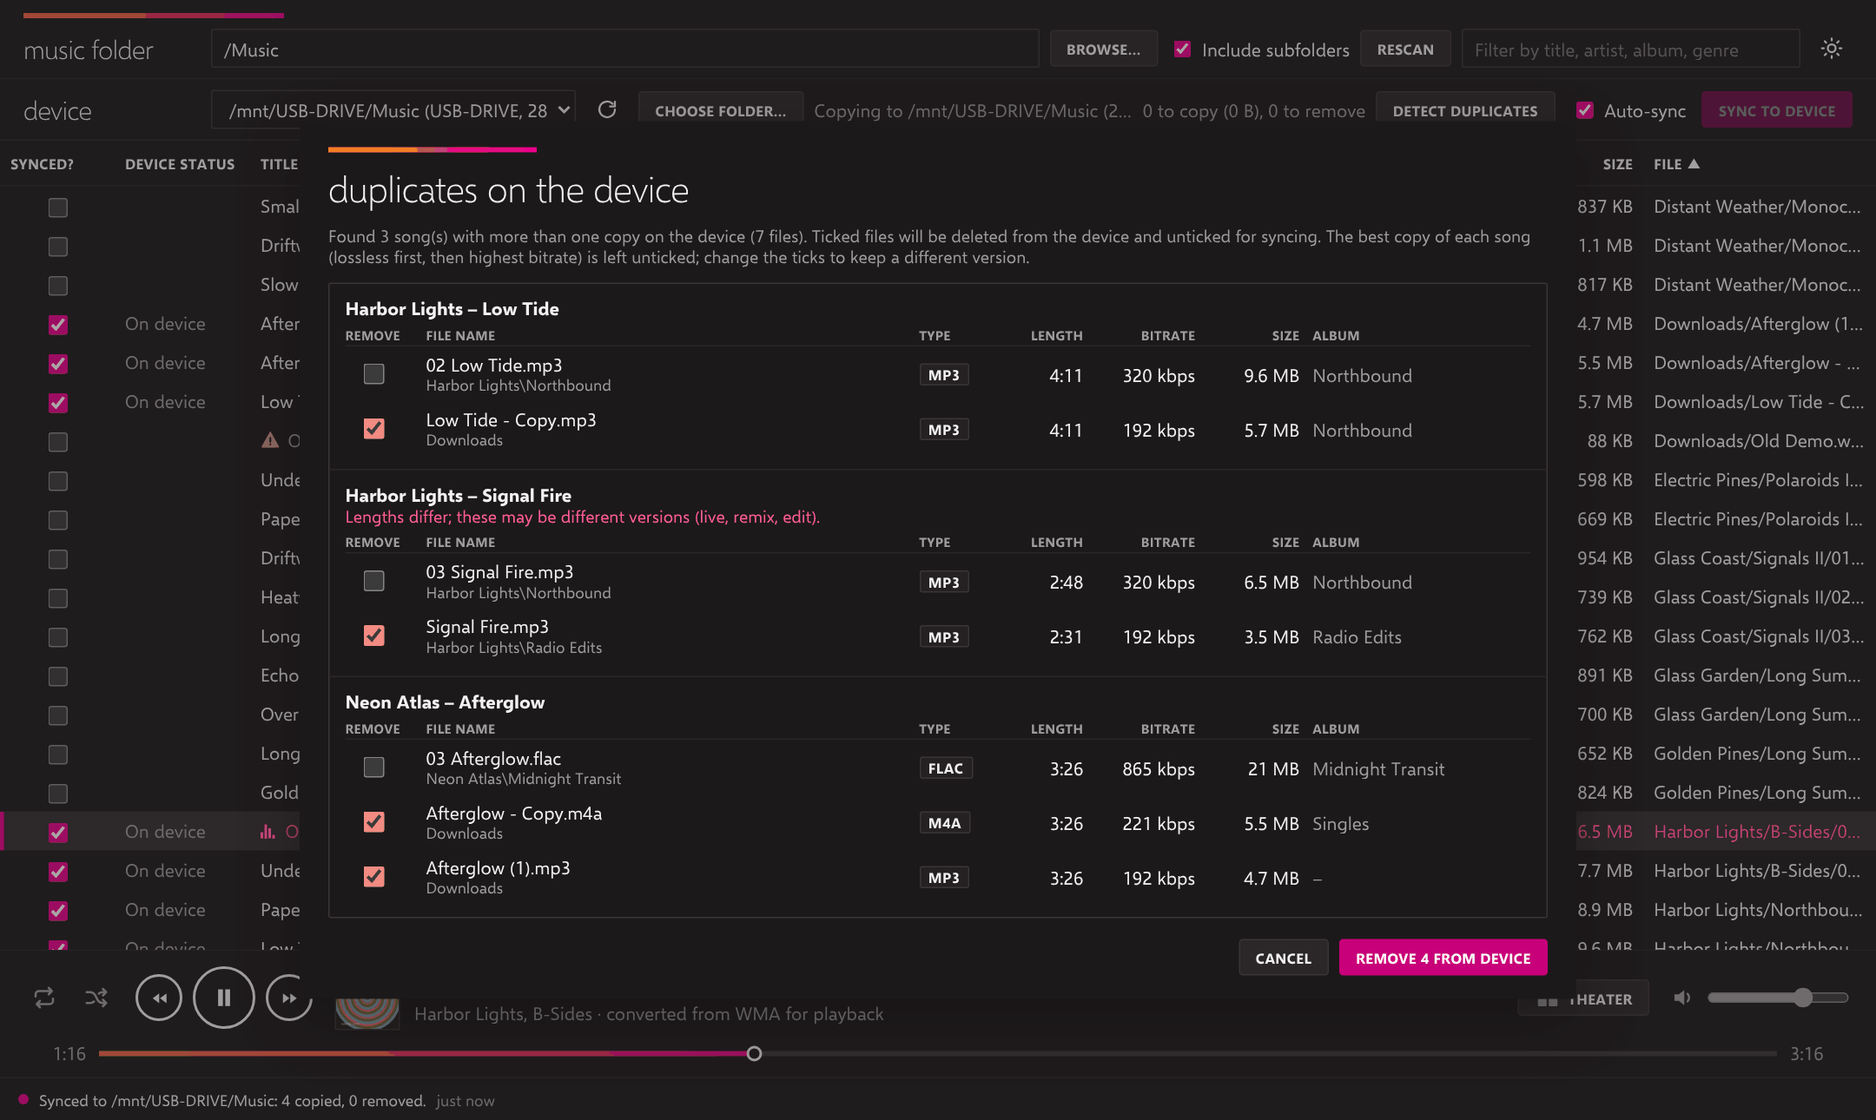
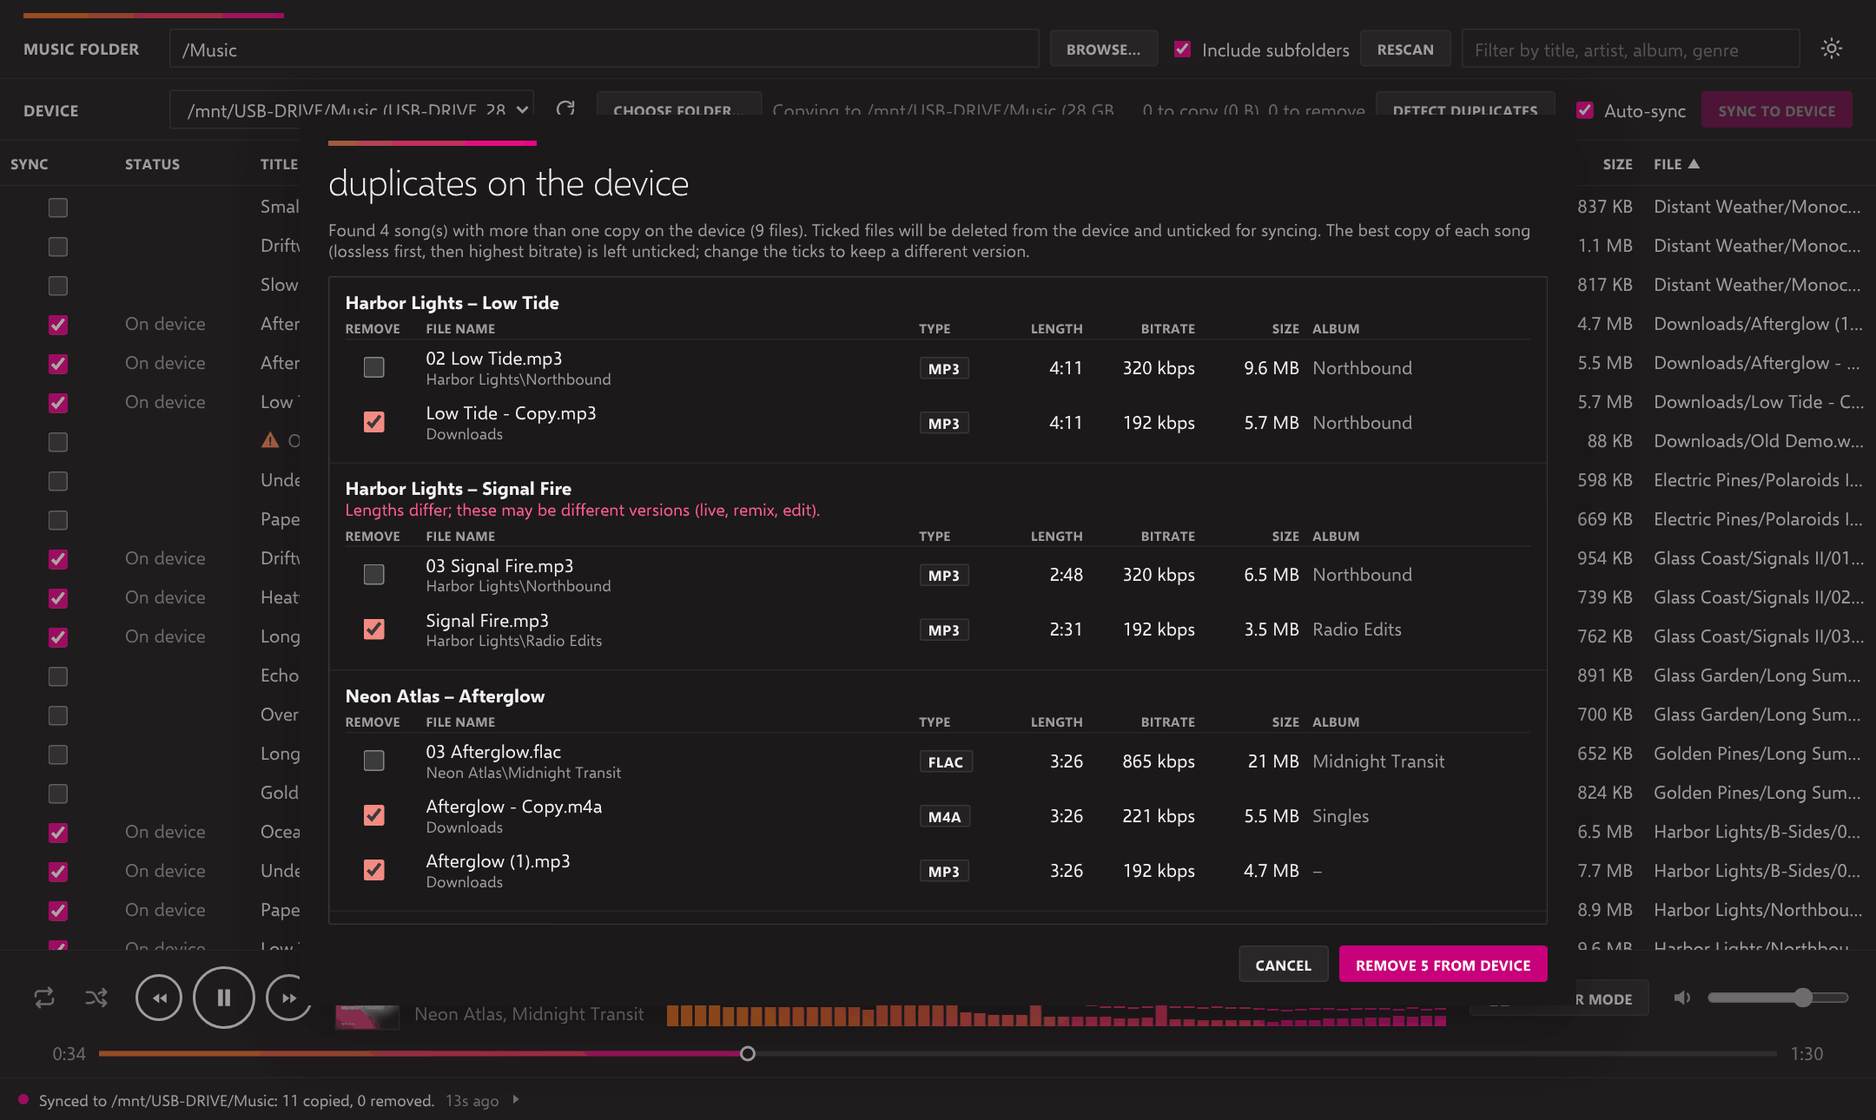
Added visualizer

diff --git a/static/visualizer.js b/static/visualizer.js
@@ -1,0 +1,113 @@
+"use strict";
+// =====================================================================
+// Spectrum visualiser in the player bar: bars in the theme's orange-to-
+// magenta gradient, low notes on the left, high on the right.
+//
+// To measure the sound, Web Audio has to take over the <audio> element's
+// output. Browsers only let that start after you've clicked or pressed a key,
+// so it connects on your first click/key. If it can't start, it never
+// connects, so the music is never silenced. Hidden when "reduce motion" is on.
+// =====================================================================
+(() => {
+  const canvas = $("#viz"), audioEl = $("#audio");
+  const reduceMotion = matchMedia("(prefers-reduced-motion: reduce)");
+  const BARS = 56, LOW_HZ = 40, HIGH_HZ = 16000;
+  let ac = null, analyser = null, bins = null, connecting = false;
+  let levels = new Float32Array(BARS), peaks = new Float32Array(BARS), raf = 0, colours = null;
+
+  async function connect() {
+    if (reduceMotion.matches) return;
+    if (ac) { if (ac.state === "suspended") ac.resume().catch(() => {}); return; }
+    if (connecting) return;
+    const AC = window.AudioContext || window.webkitAudioContext;
+    if (!AC) return;
+    connecting = true;
+    let ctx = null;
+    try {
+      ctx = new AC();
+      await Promise.race([ctx.resume(), new Promise((r) => setTimeout(r, 1500))]);
+      if (ctx.state !== "running") { ctx.close(); return; }      // not allowed yet: try on the next click
+      const source = ctx.createMediaElementSource(audioEl);
+      const an = ctx.createAnalyser();
+      an.fftSize = 4096;
+      an.smoothingTimeConstant = 0.7;
+      an.minDecibels = -88;
+      an.maxDecibels = -26;
+      source.connect(an);
+      an.connect(ctx.destination);
+      ac = ctx; analyser = an; bins = new Uint8Array(an.frequencyBinCount);
+      start();
+    } catch {
+      try { ctx && ctx.close(); } catch { /* ignore */ }
+    } finally {
+      connecting = false;
+    }
+  }
+  for (const type of ["pointerdown", "keydown"]) document.addEventListener(type, connect, { capture: true, passive: true });
+  audioEl.addEventListener("play", () => { if (ac && ac.state === "suspended") ac.resume().catch(() => {}); start(); });
+
+  function readColours() {
+    const cs = getComputedStyle(document.documentElement);
+    colours = {
+      from: cs.getPropertyValue("--zune-orange").trim() || "#F58113",
+      to: cs.getPropertyValue("--zune-magenta").trim() || "#EC008C",
+      line: cs.getPropertyValue("--line").trim() || "#DAD9D9",
+    };
+  }
+  matchMedia("(prefers-color-scheme: dark)").addEventListener("change", () => { colours = null; start(); });
+  new MutationObserver(() => { colours = null; start(); })
+    .observe(document.documentElement, { attributes: true, attributeFilter: ["data-theme"] });
+
+  function start() {
+    if (!raf && !reduceMotion.matches) raf = requestAnimationFrame(frame);
+  }
+
+  function frame() {
+    raf = 0;
+    const dpr = devicePixelRatio || 1;
+    const w = Math.round(canvas.clientWidth * dpr), h = Math.round(canvas.clientHeight * dpr);
+    if (!w || !h) return;                                   // hidden (narrow window)
+    if (canvas.width !== w || canvas.height !== h) { canvas.width = w; canvas.height = h; colours = null; }
+    if (!colours) readColours();
+
+    const live = analyser && player.state === "playing" && !audioEl.paused;
+    if (live) analyser.getByteFrequencyData(bins);
+    const nyquist = ac ? ac.sampleRate / 2 : 22050;
+    let moving = false;
+    for (let i = 0; i < BARS; i++) {
+      let v = 0;
+      if (live) {
+        // Bars are spaced evenly on a log scale, like an equaliser.
+        const lo = LOW_HZ * Math.pow(HIGH_HZ / LOW_HZ, i / BARS);
+        const hi = LOW_HZ * Math.pow(HIGH_HZ / LOW_HZ, (i + 1) / BARS);
+        const a = Math.floor((lo / nyquist) * bins.length), b = Math.max(a + 1, Math.ceil((hi / nyquist) * bins.length));
+        for (let k = a; k < b && k < bins.length; k++) v = Math.max(v, bins[k]);
+        v = Math.pow(v / 255, 1.25);
+      }
+      levels[i] = v > levels[i] ? v : levels[i] * 0.86;        // quick rise, gentle fall
+      peaks[i] = levels[i] > peaks[i] ? levels[i] : Math.max(0, peaks[i] - 0.012);
+      if (levels[i] > 0.004 || peaks[i] > 0.004) moving = true;
+    }
+
+    const g = canvas.getContext("2d");
+    g.clearRect(0, 0, w, h);
+    const gap = Math.max(1, Math.round(2 * dpr)), barW = (w - gap * (BARS - 1)) / BARS;
+    const grad = g.createLinearGradient(0, 0, w, 0);
+    grad.addColorStop(0, colours.from);
+    grad.addColorStop(1, colours.to);
+    g.fillStyle = colours.line;
+    g.fillRect(0, h - dpr, w, dpr);                           // baseline
+    g.fillStyle = grad;
+    for (let i = 0; i < BARS; i++) {
+      const x = i * (barW + gap);
+      const bh = Math.round(levels[i] * (h - 3 * dpr));
+      if (bh > 0) g.fillRect(x, h - bh, barW, bh);
+      const py = Math.round(h - peaks[i] * (h - 3 * dpr) - 2 * dpr);   // small peak caps
+      if (peaks[i] > 0.02) g.fillRect(x, py, barW, Math.max(1, Math.round(1.5 * dpr)));
+    }
+    if (live || moving) start();                              // idle when silent: no wasted frames
+  }
+
+  addEventListener("resize", start);
+  start();
+})();

diff --git a/static/style.css b/static/style.css
@@ -116,7 +116,7 @@ button, input, select { font: inherit; color: inherit; }
   padding: 8px 18px; background: var(--bar); border-bottom: 1px solid var(--line-soft);
 }
 /* UI labels: Segoe light, lowercase */
-.bar-label { font-weight: 300; font-size: 20px; text-transform: lowercase; min-width: 136px; letter-spacing: -.01em; }
+.bar-label { font-weight: 700; font-size: 12px; text-transform: uppercase; letter-spacing: .02em; min-width: 104px; }
 .path { flex: 1 1 280px; min-width: 200px; }
 .filter { flex: 0 1 260px; margin-left: auto; }
 .device-info { flex: 1 1 0; min-width: 60px; color: var(--muted); white-space: nowrap; overflow: hidden; text-overflow: ellipsis; }
@@ -203,8 +203,8 @@ button.icon svg { width: 18px; height: 18px; fill: currentColor; }
 /* ---------- Player ---------- */
 .player {
   display: grid; align-items: center; gap: 10px 18px;
-  grid-template-columns: auto minmax(0, 1fr) auto;
-  grid-template-areas: "transport now volume" "seek seek seek";
+  grid-template-columns: auto minmax(0, max-content) minmax(0, 1fr) auto;
+  grid-template-areas: "transport now viz volume" "seek seek seek seek";
   padding: 12px 18px 10px; background: var(--bar); border-top: 1px solid var(--line-soft);
 }
 /* Zune-style transport: repeat and shuffle as glyphs that light up, then
@@ -231,7 +231,10 @@ button.icon svg { width: 18px; height: 18px; fill: currentColor; }
   border-radius: 50%; background: currentColor;
 }
 .transport .mode-btn + .ring { margin-left: 6px; }
-.now { grid-area: now; min-width: 0; display: flex; align-items: center; gap: 12px; }
+.now { grid-area: now; min-width: 0; max-width: 440px; display: flex; align-items: center; gap: 12px; }
+/* Spectrum visualiser in the space between the song and the volume */
+.viz { grid-area: viz; display: block; width: 100%; height: 44px; min-width: 0; }
+@media (prefers-reduced-motion: reduce) { .viz { visibility: hidden; } }
 .now-text { min-width: 0; }
 .now-art { width: 48px; height: 48px; flex: none; object-fit: cover; box-shadow: 0 0 0 1px var(--line); }
 .now-art[hidden] { display: none; }
@@ -269,6 +272,7 @@ input[type=range] { accent-color: var(--accent); }
 
 @media (max-width: 860px) {
   .player { grid-template-columns: auto minmax(0, 1fr); grid-template-areas: "transport now" "volume volume" "seek seek"; }
+  .viz { display: none; }
   .volume { justify-self: end; }
 }
 
@@ -281,12 +285,18 @@ input[type=range] { accent-color: var(--accent); }
 .activity-now {
   display: flex; align-items: center; gap: 8px; width: 100%; height: 28px; padding: 0 6px;
   background: none; border: 0; border-radius: 2px; color: inherit; font-size: 12px; font-weight: 400;
-  text-transform: none; letter-spacing: 0; text-align: left; cursor: default;
+  text-transform: none; letter-spacing: 0; text-align: left;
 }
 .activity-now:hover:not(:disabled), .activity-now[aria-expanded="true"] { background: var(--surface-alt); border: 0; }
 .activity-text { flex: 0 1 auto; min-width: 0; white-space: nowrap; overflow: hidden; text-overflow: ellipsis; color: var(--ink); }
 .activity-text.transient { color: var(--muted); }
 .activity-when { flex: none; color: var(--muted); font-variant-numeric: tabular-nums; }
+.activity-now { cursor: pointer; }
+/* ▸ says there's more; it turns to point up (where the history opens) while open */
+.activity-caret { flex: none; width: 10px; height: 10px; fill: var(--muted); transition: transform .15s; }
+.activity-now:hover .activity-caret { fill: var(--accent-text); }
+.activity-now[aria-expanded="true"] .activity-caret { transform: rotate(-90deg); fill: var(--accent-text); }
+@media (prefers-reduced-motion: reduce) { .activity-caret { transition: none; } }
 .lvl { flex: none; width: 8px; height: 8px; border-radius: 50%; background: var(--muted); }
 .lvl.success { background: var(--accent); }
 .lvl.warning { background: var(--warn); }

diff --git a/static/app.js b/static/app.js
@@ -134,20 +134,18 @@ async function pollActivity() {
 setInterval(pollActivity, 3000);
 setInterval(() => renderActivity(false), 15000);   // keeps "2 min ago" current
 
-// Hover opens the history; click pins it open (also works with keyboard and touch).
+// Click the status bar to open the history; click it again, click anywhere else or press Esc to close.
 (() => {
   const box = $("#activity"), btn = $("#activityBtn"), panel = $("#activityPanel");
-  let pinned = false, closeTimer = 0;
   const show = (open) => {
     panel.hidden = !open;
     btn.setAttribute("aria-expanded", String(open));
+    btn.setAttribute("aria-label", open ? "Hide recent activity" : "Show recent activity");
     if (open) renderActivityList();
   };
-  box.addEventListener("mouseenter", () => { clearTimeout(closeTimer); show(true); });
-  box.addEventListener("mouseleave", () => { if (!pinned) closeTimer = setTimeout(() => show(false), 250); });
-  btn.addEventListener("click", () => { pinned = !pinned || panel.hidden; show(pinned); });
-  document.addEventListener("click", (e) => { if (!box.contains(e.target)) { pinned = false; show(false); } });
-  document.addEventListener("keydown", (e) => { if (e.key === "Escape" && !panel.hidden) { pinned = false; show(false); } });
+  btn.addEventListener("click", () => show(panel.hidden));
+  document.addEventListener("click", (e) => { if (!panel.hidden && !box.contains(e.target)) show(false); });
+  document.addEventListener("keydown", (e) => { if (e.key === "Escape" && !panel.hidden) show(false); });
 })();
 
 // =====================================================================
@@ -190,8 +188,8 @@ function statusOf(t) {
 const byStr = (f) => (t) => (f(t) || "").toLowerCase();
 const fileType = (t) => (t.rel.match(/\.([^.\\/]+)$/) || [, ""])[1].toUpperCase();
 const COLS = [
-  { key: "selected", label: "Synced?", cls: "c-check", sort: (t) => (t.selected ? 0 : 1) },
-  { key: "status", label: "Device status", sort: (t) => STATUS[statusOf(t)].rank || 9 },
+  { key: "selected", label: "Sync", cls: "c-check", sort: (t) => (t.selected ? 0 : 1) },
+  { key: "status", label: "Status", sort: (t) => STATUS[statusOf(t)].rank || 9 },
   { key: "title", label: "Title", cls: "c-title", text: (t) => t.title, sort: byStr((t) => t.title) },
   { key: "artist", label: "Artist", text: (t) => t.artist, sort: byStr((t) => t.artist) },
   { key: "album", label: "Album", text: (t) => t.album, sort: byStr((t) => t.album) },
@@ -688,15 +686,16 @@ $("#syncBtn").addEventListener("click", async () => {
 
 // =====================================================================
 // Auto-sync: a moment after ticks change, copy the newly ticked songs and
-// remove the unticked ones, so the device always matches the Synced? column.
+// remove the unticked ones, so the device always matches the Sync column.
 // =====================================================================
-const AUTO_SYNC_DELAY = 1500;           // waits for you to stop clicking
+const AUTO_SYNC_DELAY = 5000;           // time to change your mind: a tick undone within it never copies
 const AUTO_SYNC_ASK_OVER = 25;          // more removals than this at once: ask first
 let autoSyncTimer = 0, autoSyncPending = false, holdRemovals = false;
 
 function scheduleAutoSync(delay = AUTO_SYNC_DELAY) {
   if (!$("#autoSync").checked || !state.device) return;
   autoSyncPending = true;
+  if (delay >= AUTO_SYNC_DELAY && !state.busy) setStatus(`Auto-sync in ${Math.round(delay / 1000)} seconds…`);
   clearTimeout(autoSyncTimer);
   autoSyncTimer = setTimeout(runAutoSync, delay);
 }

diff --git a/static/index.html b/static/index.html
@@ -73,10 +73,11 @@
         <div class="now-sub" id="nowSub">Double-click a song to play it</div>
       </div>
     </div>
+    <canvas class="viz" id="viz" aria-hidden="true"></canvas>
     <div class="volume">
       <button id="theaterBtn" class="theater-btn" title="Theater mode: full-window player with album art (T)">
         <svg viewBox="0 0 24 24" aria-hidden="true"><rect x="3" y="4" width="8" height="7" rx="1"/><rect x="13" y="4" width="8" height="4" rx="1"/><rect x="13" y="10" width="8" height="10" rx="1"/><rect x="3" y="13" width="8" height="7" rx="1"/></svg>
-        Theater
+        Theater Mode
       </button>
       <svg viewBox="0 0 24 24" aria-hidden="true"><path d="M4 9v6h4l5 4V5L8 9z"/><path d="M16 8.5a5 5 0 0 1 0 7" fill="none" stroke="currentColor" stroke-width="2" stroke-linecap="round"/></svg>
       <input type="range" id="volume" min="0" max="1" step="0.01" value="0.7" aria-label="Volume">
@@ -90,10 +91,11 @@
 
   <footer class="status">
     <div class="activity" id="activity">
-      <button type="button" class="activity-now" id="activityBtn" aria-expanded="false" aria-controls="activityPanel">
+      <button type="button" class="activity-now" id="activityBtn" aria-expanded="false" aria-controls="activityPanel" aria-label="Show recent activity" title="Recent activity">
         <span class="lvl" id="activityDot" aria-hidden="true"></span>
         <span class="activity-text" id="statusText">Starting…</span>
         <span class="activity-when" id="activityWhen"></span>
+        <svg class="activity-caret" viewBox="0 0 10 10" aria-hidden="true"><path d="M3 1.5 7.5 5 3 8.5z"/></svg>
       </button>
       <div class="activity-panel" id="activityPanel" role="region" aria-label="Recent activity" hidden>
         <div class="activity-head">Recent activity</div>
@@ -231,6 +233,7 @@
 </dialog>
 
 <script src="/static/app.js"></script>
+<script src="/static/visualizer.js"></script>
 <script src="/static/theater.js"></script>
 </body>
 </html>

diff --git a/static/theater.js b/static/theater.js
@@ -255,7 +255,7 @@
     ui.title.textContent = t.title;
     ui.ptitle.textContent = t.title;
     ui.synced.setAttribute("aria-pressed", String(!!t.selected));
-    ui.synced.title = t.selected ? "On your device list (click to untick)" : "Keep on device (ticks Synced?)";
+    ui.synced.title = t.selected ? "On your device list (click to untick)" : "Keep on device (ticks Sync)";
     if (shownTrackId !== t.id) {
       shownTrackId = t.id;
       ui.cover.classList.remove("blank");
@@ -379,7 +379,7 @@
   ui.synced.addEventListener("click", () => {
     const t = player.current;
     if (!t) return;
-    setChecked([t.id], !t.selected);          // same as ticking Synced? (auto-sync follows)
+    setChecked([t.id], !t.selected);          // same as ticking Sync (auto-sync follows)
     updateAll();
   });
   ui.locate.addEventListener("click", () => {

diff --git a/README.md b/README.md
@@ -18,7 +18,7 @@ Theater mode, a full-window player over a wall of album art:
 | ![Dark mode](docs/screenshots/main-dark.png) | ![Duplicates dialog](docs/screenshots/duplicates-dark.png) |
 | **Right-click menu** | **Folder picker** |
 | ![Right-click menu on several highlighted songs](docs/screenshots/context-menu.png) | ![Folder picker](docs/screenshots/folder-picker.png) |
-| **Theater mode with song details** | **Recent activity (hover the status bar)** |
+| **Theater mode with song details** | **Recent activity (click the status bar)** |
 | ![Theater mode with the details panel open](docs/screenshots/theater-details.png) | ![Recent activity panel](docs/screenshots/activity.png) |
 
 A WMA file playing in the browser after being converted on the fly:
@@ -75,6 +75,12 @@ the browser.
 
   Formats the browser can't play are converted automatically (see "Playing
   every format").
+- **Visualizer:** while a song plays, a spectrum visualizer fills the space
+  in the player bar, in the same orange-to-magenta gradient (low notes on the
+  left, high on the right). It starts after your first click or key press on
+  the page, because browsers only allow audio analysis after you've
+  interacted. It's hidden in narrow windows and when Windows' "reduce
+  motion" setting (Animation effects off) is on.
 - **Where you left off:** the playing song, position, queue, shuffle and
   repeat are saved every few seconds (and on pause, seek, song change and
   closing the page). Next time you open MusicSync, even after a crash or
@@ -88,21 +94,24 @@ the browser.
   The folder is remembered: if the drive isn't plugged in, the app says so and
   reconnects by itself within a few seconds of you plugging it in (or press
   the refresh button). Your ticks are kept while it's unplugged.
-- **Ticking songs:** use the *Synced?* checkboxes, or highlight rows
+- **Ticking songs:** use the *Sync* checkboxes, or highlight rows
   (Shift/Ctrl-click, Ctrl+A) and press Space. Right-click for more options.
-  The *Device status* column shows **To copy**, **On device** or **To remove**.
-- **Auto-sync** (on by default, next to Sync to device): a moment after you
+  The *Status* column shows **To copy**, **On device** or **To remove**.
+- **Auto-sync** (on by default, next to Sync to device): 5 seconds after you
   stop ticking or unticking, newly ticked songs are copied and unticked ones
-  removed from the device. It also applies changes you made while the drive
+  removed from the device. The wait lets you change your mind: a song ticked
+  by mistake and unticked within those 5 seconds is never copied (and the
+  other way round), and the status bar shows the countdown. It also applies changes you made while the drive
   was unplugged, as soon as it's back. If one change would remove more than 25
   songs, it asks first; say no and it holds those removals until you press
   Sync to device. Choosing a different device doesn't start a sync by itself.
   Turn Auto-sync off to review changes and press **Sync to device** yourself.
 - **Status bar:** shows progress while something runs, otherwise the latest
-  activity and how long ago it happened. Hover over it (or click it) for the
-  recent history: scans, syncs, files that couldn't be copied, devices
-  plugged in or out, conversions and songs that wouldn't play. The full log is
-  under tray icon > Show log file.
+  activity and how long ago it happened. The ▸ means there's more: click the
+  status bar to open the recent history, and click it again, click anywhere
+  else or press Esc to close it. The history lists scans, syncs, files that
+  couldn't be copied, devices plugged in or out, conversions and songs that
+  wouldn't play. The full log is under tray icon > Show log file.
 
 ## Look and feel
 
@@ -116,8 +125,8 @@ The colours and type follow the 2008 Zune brand guidelines:
 - The **orangenta** gradient (Zune Orange `#F58113` to Magenta, left to
   right) only as a small signature: the bar at the top left, dialog headings
   and the played part of the seek bar. Orange is never used on its own.
-- **Segoe**: light lowercase for labels ("music folder", dialog titles),
-  small bold uppercase for column headings and buttons, regular for
+- **Segoe**: small bold uppercase for labels, column headings and buttons
+  ("MUSIC FOLDER", "SYNC"), light lowercase for dialog titles, regular for
   everything else. Windows has Segoe UI built in. On other systems the app
   uses **Selawik**, Microsoft's free, open-licensed stand-in for Segoe UI,
   which is bundled in `static/fonts` (SIL Open Font License, included).
@@ -127,7 +136,7 @@ The colours and type follow the 2008 Zune brand guidelines:
 ## Theater mode
 
 A full-window player, for when the music is the point. Open it with the
-**Theater** button in the player bar, **Play in Theater Mode** on the
+**Theater Mode** button in the player bar, **Play in Theater Mode** on the
 right-click menu, or the **T** key.
 
 - The background is a wall of your album covers in mixed tile sizes, turned
@@ -136,7 +145,7 @@ right-click menu, or the **T** key.
   onto a big tile when the song changes. Albums without art get lettered tiles.
 - Bottom left: the cover, artist, album and title, with buttons for **song
   details** (format, bitrate, file, device status), **keep on device** (same as
-  the *Synced?* tick, so Auto-sync follows) and **show in library**.
+  the *Sync* tick, so Auto-sync follows) and **show in library**.
 - Right: **up next**, with the playing song highlighted. Click a song to jump
   to it; the list button at the bottom right hides or shows it.
 - Bottom: progress (click to seek), repeat, shuffle, previous/play/next, full
